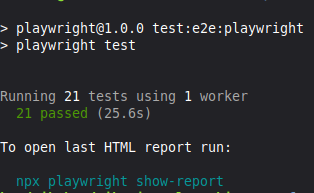
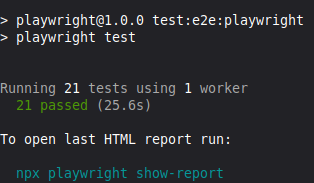
docs: post-processing of the hesdless-style-test.png and first version of e2e-report added

diff --git a/docs/ui/e2e-report.md b/docs/ui/e2e-report.md
@@ -1,0 +1,20 @@
+# E2E Test Report
+
+## 1. Test execution summary
+| Test Count | Number of tests passed | Number of tests failed | total runtime | framework | framework version |
+|:----------:|------------------------|------------------------|---------------|-----------|-------------------|
+| 21         | 21                     | 0                      | 25.6s         | playwright| 1.0.0             |
+
+## 2. Headless output
+![alt text](headless-style-test.png)
+
+## 3. Interactive run
+![alt text](interactive_test_runner.png)
+
+## 4. Flakiness observations
+In the first runs of our tests, flakiness in our tests were observed. The cause was a timing error in displaying our sessions in the frontend. This has been fixed by adding the following code to the testfile.
+```typescript
+await page.waitForLoadState('networkidle'); // wait for sessions to actually load
+```
+
+## 5. Reflection